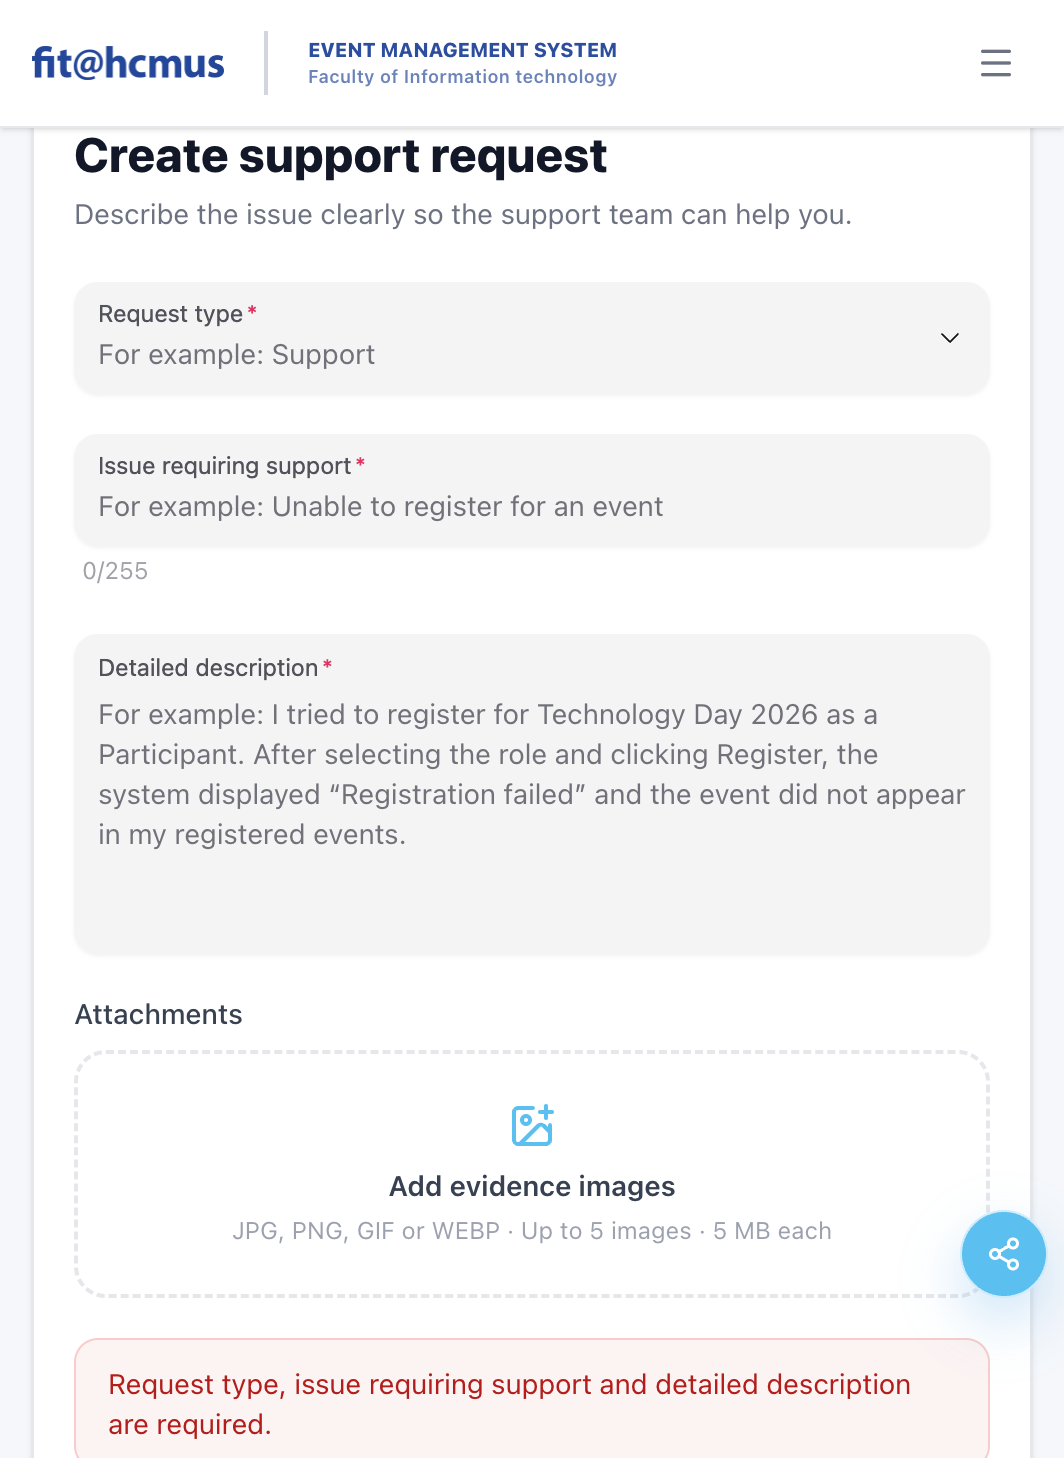
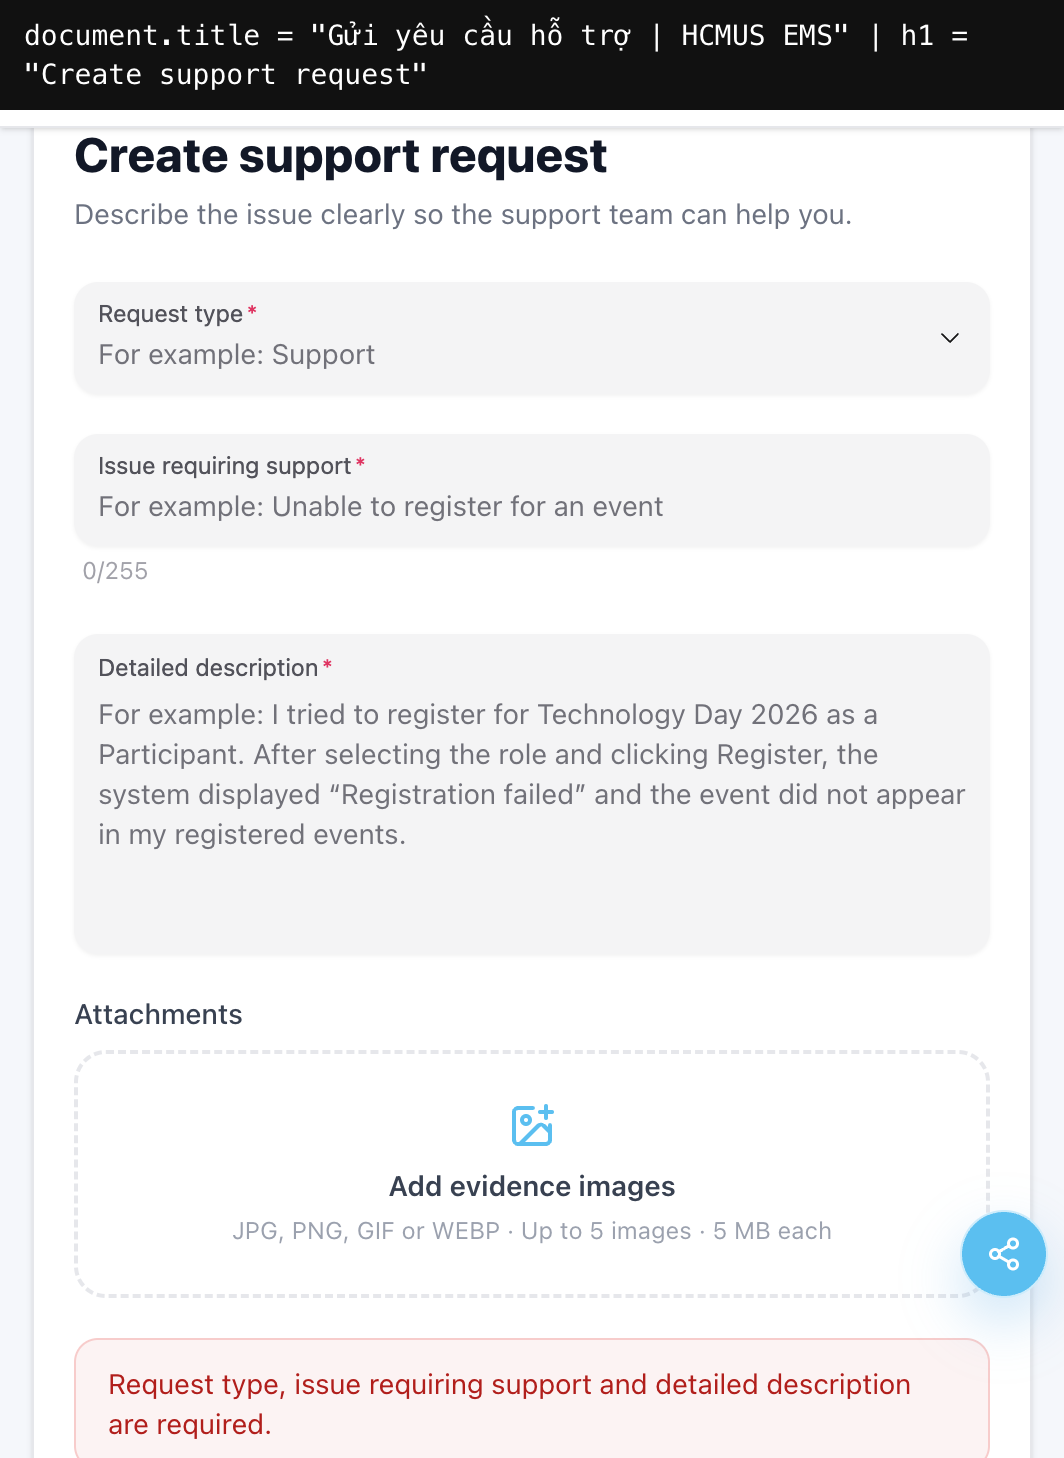
fix(hw03): correct D1 checklist counts and Fail evidence
Align summary to 22/7/11, recapture pre-submit vs post-submit vs menu
shots, and clarify IA02-02 as missing pre-submit required markers.

Changed region(s): [[0.0, 0.0, 1.0, 0.0926]]

diff --git a/submission/evidence/t1b/D1_execution.md b/submission/evidence/t1b/D1_execution.md
@@ -14,62 +14,62 @@
 | Result | Count |
 |---|---:|
 | Passed | 22 |
-| Failed | 8 |
-| N/A | 10 |
+| Failed | 7 |
+| N/A | 11 |
 | **Total executable** | **40** |
 
 ## Execution matrix
 
 | Checklist ID | Aspect | Result | Notes | Screenshot |
 |---|---|---|---|---|
-| IA01-01 | IA-01 | Pass | Form sections (type / title / description / attachments / actions) align on a single column card | — |
+| IA01-01 | IA-01 | Pass | Form sections align on a single column card | — |
 | IA01-02 | IA-01 | Pass | Consistent vertical spacing between field groups | — |
 | IA01-03 | IA-01 | Pass | H1 “Create support request” dominates; helper text secondary | — |
 | IA01-04 | IA-01 | Pass | Dark text on light card; primary CTA readable | — |
 | IA01-05 | IA-01 | Pass | Cancel (secondary) + Submit (primary) match EMS button patterns | — |
-| IA01-06 | IA-01 | Fail | Document title VI (`Gửi yêu cầu hỗ trợ`) while on-page H1/labels/placeholders remain EN — mixed locale on one view | `D1/IA01-06.png` |
+| IA01-06 | IA-01 | Fail | `document.title` is VI (`Gửi yêu cầu hỗ trợ \| HCMUS EMS`) while H1/labels/placeholders stay EN — mixed locale | `D1/IA01-06.png` (overlay shows title vs h1) |
 | IA01-07 | IA-01 | N/A | Create form (not a list empty state) | — |
-| IA01-08 | IA-01 | Pass | Page content stable on load; no obvious layout jump | — |
-| IA01-09 | IA-01 | Pass | Desktop: form fully visible; no horizontal overflow (mobile deferred to Task 3) | — |
-| IA01-10 | IA-01 | Pass | Attachment dropzone present with clear helper; no broken-image chrome when empty | — |
-| IA02-01 | IA-02 | Pass | Visible labels for Request type, Issue, Detailed description, Attachments | — |
-| IA02-02 | IA-02 | Fail | Fields are `required` in DOM but UI shows no `*` and no “required” legend before submit | `D1/IA02-02.png` |
-| IA02-03 | IA-02 | Pass | Attachment helper states JPG/PNG/GIF/WEBP · up to 5 images · 5 MB each; placeholders give examples | — |
-| IA02-04 | IA-02 | Pass | Request type `<select>` with Support / Complaint / Contact / Other; labels clear | — |
-| IA02-05 | IA-02 | Pass | Empty submit blocked; validation runs at submit time | — |
-| IA02-06 | IA-02 | Fail | Single combined alert: “Request type, issue requiring support and detailed description are required.” — not per-field inline errors | `D1/IA02-06.png` |
-| IA02-07 | IA-02 | Fail | After failed submit, focus remains on Submit; does not move to first invalid field | `D1/IA02-06.png` |
+| IA01-08 | IA-01 | Pass | Page content stable on load | — |
+| IA01-09 | IA-01 | Pass | Desktop: no horizontal overflow on form | — |
+| IA01-10 | IA-01 | Pass | Attachment dropzone + helper present when empty | — |
+| IA02-01 | IA-02 | Pass | Visible labels for all main fields | — |
+| IA02-02 | IA-02 | Fail | Before submit: no `*` and no required legend (DOM `required` only). Asterisks appear only after failed submit | `D1/IA02-02.png` (pre-submit; 0 asterisks) |
+| IA02-03 | IA-02 | Pass | Attachment constraints + example placeholders | — |
+| IA02-04 | IA-02 | Pass | Request type select with clear options | — |
+| IA02-05 | IA-02 | Pass | Empty submit blocked at submit time | — |
+| IA02-06 | IA-02 | Fail | One combined alert at bottom: “…are required.” — not per-field inline | `D1/IA02-06.png` |
+| IA02-07 | IA-02 | Fail | After failed submit, focus stays on Submit (not first invalid field) | `D1/IA02-07.png` |
 | IA02-08 | IA-02 | N/A | No date/time fields on D1 | — |
-| IA02-09 | IA-02 | Pass | Upload constraints disclosed; control present (preview/replace not exercised this run) | — |
-| IA02-10 | IA-02 | N/A | Plain textarea — no rich-text editor on D1 | — |
-| IA03-01 | IA-03 | Fail | Menu lists “Support requests” but current create page lacks a clear active/highlight state in the open menu | `D1/IA03-01.png` |
-| IA03-02 | IA-03 | Pass | Back button present above the form | — |
-| IA03-03 | IA-03 | Fail | No breadcrumb (e.g. Home › Support requests › Create) | `D1/IA03-03.png` |
+| IA02-09 | IA-02 | Pass | Upload constraints disclosed | — |
+| IA02-10 | IA-02 | N/A | Plain textarea — no rich-text editor | — |
+| IA03-01 | IA-03 | Fail | On `/complaints/new`, open menu shows “Support requests” with no clear current/active highlight | `D1/IA03-01.png` |
+| IA03-02 | IA-03 | Pass | Back button present | — |
+| IA03-03 | IA-03 | Fail | No breadcrumb trail on create page | `D1/IA03-03.png` |
 | IA03-04 | IA-03 | N/A | No tabs on D1 | — |
-| IA03-05 | IA-03 | Pass | Menu label “Support requests” matches function | — |
-| IA03-06 | IA-03 | Pass | Menu groups Events / Calendar / Saved / Guide / Support / Profile — shallow hierarchy | — |
-| IA03-07 | IA-03 | Pass | Deep link `/complaints/new` opens correct create screen while authenticated | — |
-| IA03-08 | IA-03 | Pass | Buttons/links interactive (Back, Cancel, Submit, Open menu) | — |
-| IA03-09 | IA-03 | Fail | Floating Social FAB overlays footer; keyboard path to form vs FAB unclear / competes for focus | `D1/IA01-06.png` |
-| IA03-10 | IA-03 | Pass | “Open menu” drawer pattern available for compact layouts | — |
-| IA04-01 | IA-04 | Pass | Failed submit surfaces an explicit required-fields message (error path) | — |
-| IA04-02 | IA-04 | Pass | Error message readable near form top; does not cover Submit | — |
+| IA03-05 | IA-03 | Pass | Menu label “Support requests” is understandable | — |
+| IA03-06 | IA-03 | Pass | Shallow menu hierarchy | — |
+| IA03-07 | IA-03 | Pass | Deep link `/complaints/new` works while authenticated | — |
+| IA03-08 | IA-03 | Pass | Primary controls interactive | — |
+| IA03-09 | IA-03 | Fail | Floating Social FAB sits over footer/content edge and competes for attention near the form actions | `D1/IA03-09.png` |
+| IA03-10 | IA-03 | Pass | Open-menu drawer available | — |
+| IA04-01 | IA-04 | Pass | Failed submit shows an explicit required-fields message | — |
+| IA04-02 | IA-04 | Pass | Error banner readable (bottom sticky); does not cover Submit | — |
 | IA04-03 | IA-04 | N/A | No status badges on create screen | — |
 | IA04-04 | IA-04 | N/A | No status colour coding on create screen | — |
-| IA04-05 | IA-04 | N/A | Empty form — Cancel/leave confirmation not exercised with dirty data | — |
-| IA04-06 | IA-04 | N/A | No long-running submit observed this run | — |
-| IA04-07 | IA-04 | N/A | Processing/disabled Submit not observed (submit aborted client-side) | — |
+| IA04-05 | IA-04 | N/A | Dirty-form leave confirmation not exercised | — |
+| IA04-06 | IA-04 | N/A | No long-running submit observed | — |
+| IA04-07 | IA-04 | N/A | Processing/disabled Submit not observed (client abort) | — |
 | IA04-08 | IA-04 | N/A | Not a list/search screen | — |
-| IA04-09 | IA-04 | N/A | No successful create → list sync in this run | — |
-| IA04-10 | IA-04 | Pass | Required message is specific (names the missing fields), not generic “Something went wrong” | — |
+| IA04-09 | IA-04 | N/A | No successful create → list sync this run | — |
+| IA04-10 | IA-04 | Pass | Message names the missing fields (not generic “Something went wrong”) | — |
 
 ## Bug candidates (for Findings Log later)
 
 | ID | Related | Severity | Summary |
 |---|---|---|---|
 | BUG-D1-01 | IA01-06 | Major | Mixed VI document title + EN form chrome |
-| BUG-D1-02 | IA02-02 | Minor | Required fields not marked before submit |
-| BUG-D1-03 | IA02-06 / IA02-07 | Major | Combined validation alert; focus stays on Submit |
+| BUG-D1-02 | IA02-02 | Minor | Required markers only after first failed submit; no pre-submit legend |
+| BUG-D1-03 | IA02-06 / IA02-07 | Major | Combined bottom validation alert; focus stays on Submit |
 | BUG-D1-04 | IA03-03 | Minor | Missing breadcrumb on create flow |
-| BUG-D1-05 | IA03-01 | Minor | Weak/absent active state for Support in menu on create page |
-| BUG-D1-06 | IA03-09 | Minor | Social FAB competes with form keyboard/visual focus |
+| BUG-D1-05 | IA03-01 | Minor | Weak/absent active state for Support on create page |
+| BUG-D1-06 | IA03-09 | Minor | Social FAB competes with form chrome |
